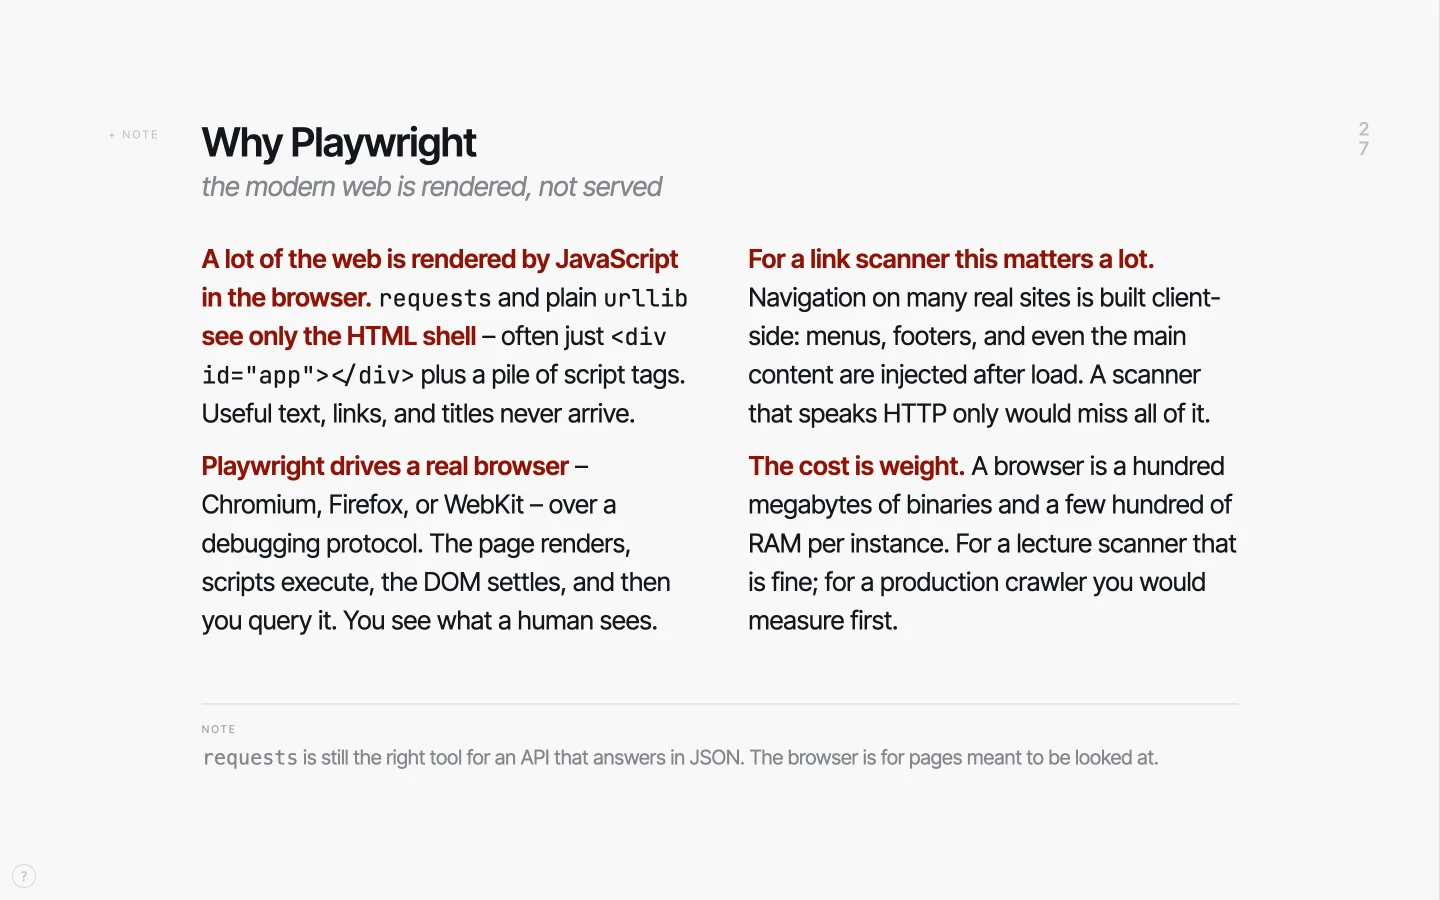
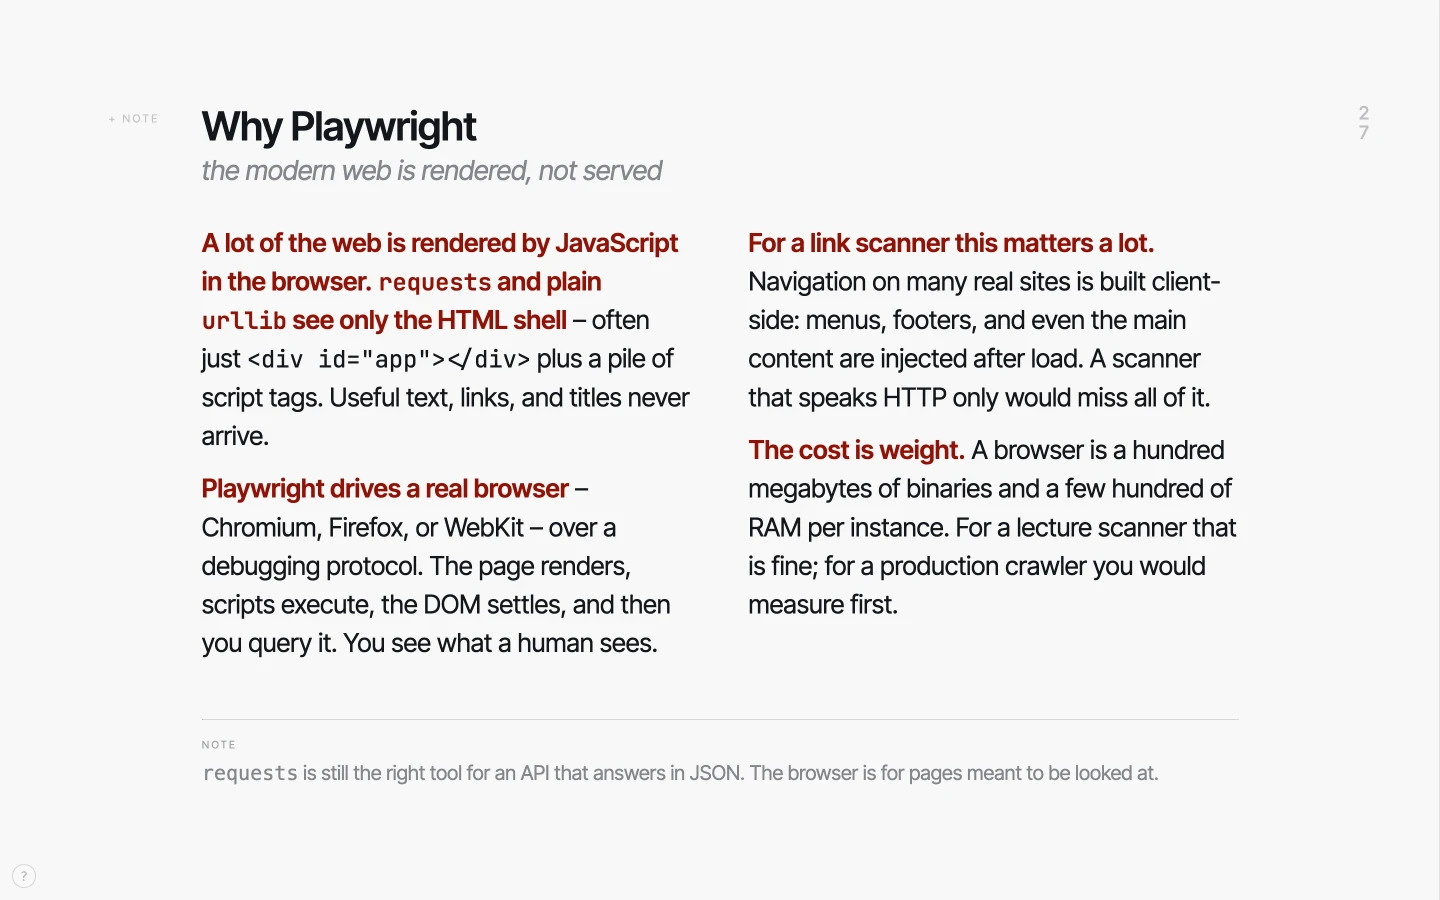
docs(site): re-shoot all six screenshots after the collapse sweep
The projected text changed on the chunk the whole page is built from: the
second line read "see only the HTML shell" with no subject, and now reads
"requests and plain urllib see only the HTML shell". Every shot showing that
chunk was therefore wrong, which is all of them except the overview board –
re-taken anyway so the set is one session and one state.

Shot from a cleared localStorage this time, so the pictures show the
defaults a first-time visitor gets rather than whatever I had toggled: zoom
1.35, auto-fit off, light theme, sans (the one deliberate keypress).

The Markdown sample on the page follows the source again.

diff --git a/docs/site/index.html b/docs/site/index.html
@@ -56,9 +56,10 @@
 
 ::: cols 2
 
-**A lot of the web is rendered by JavaScript in the browser.** `requests` and
-plain `urllib` **see only the HTML shell** &ndash; often just `&lt;div id="app"&gt;&lt;/div&gt;`
-plus a pile of script tags. Useful text, links, and titles never arrive.
+**A lot of the web is rendered by JavaScript in the browser.**
+**`requests` and plain `urllib` see only the HTML shell** &ndash; often just
+`&lt;div id="app"&gt;&lt;/div&gt;` plus a pile of script tags. Useful text, links, and
+titles never arrive.
 
 **Playwright drives a real browser** &ndash; Chromium, Firefox, or WebKit &ndash; over a
 debugging protocol. The page renders, scripts execute, the DOM settles, and
